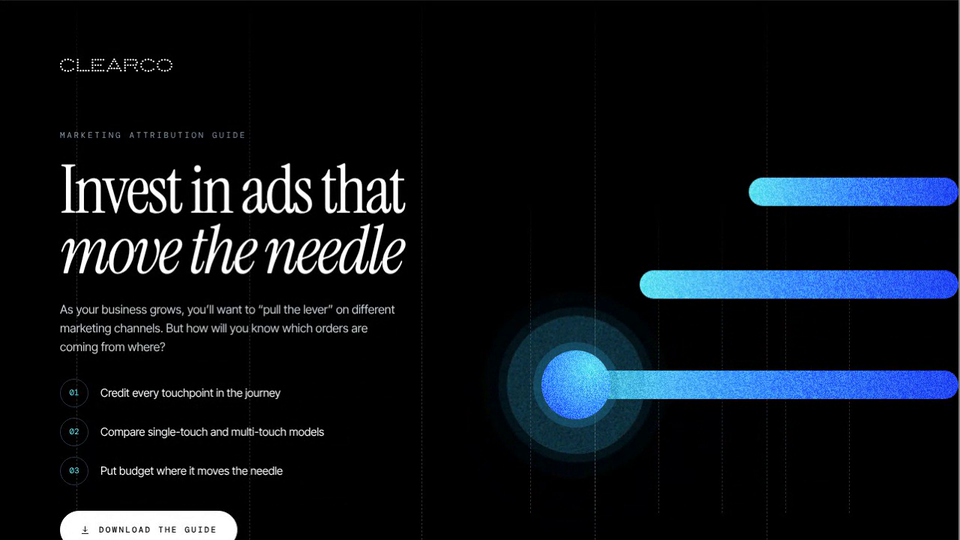
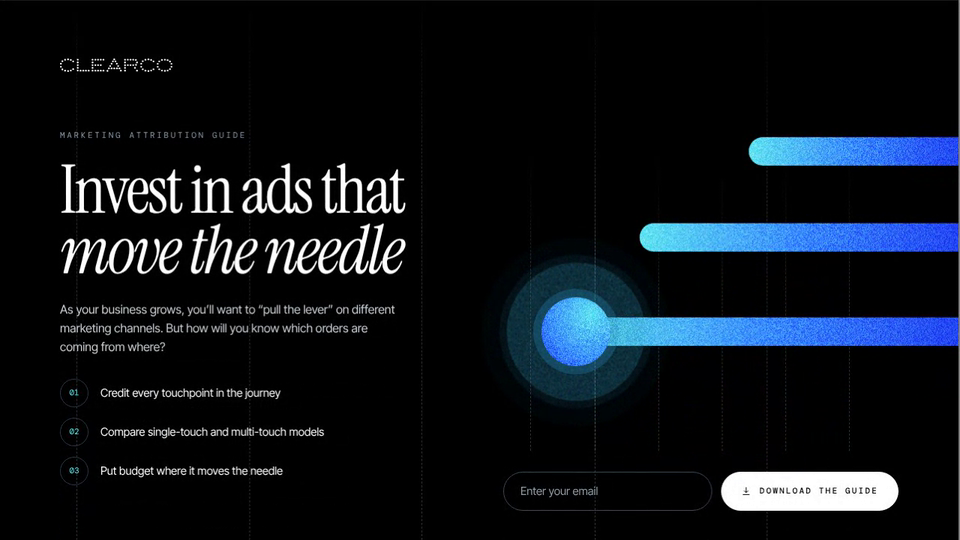
Attribution Guide: hero email sign-up in the right column under the pills, divider under the hero, square edge on pills that bleed off screen
Claude-Session: https://claude.ai/code/session_01AHeBdyii5AjQS77wpPRRok

diff --git a/clearco-attribution-guide/index.html b/clearco-attribution-guide/index.html
@@ -63,8 +63,8 @@ section,.band{position:relative;overflow:hidden}
    --w is how far it reaches (a fraction of its box), --p is the animation progress (0 to 1, set by script), --h its thickness.
    .pl grows from the left edge and leads with its right end, .pr grows from the right edge. */
 .pl,.pr{position:absolute;height:var(--h,34px);width:calc(var(--w,1) * 100% * var(--p,1));border-radius:99px;top:var(--y,0)}
-.pl{left:0;background:linear-gradient(90deg,var(--blue),var(--blue2) 50%,var(--cyan))}
-.pr{right:0;background:linear-gradient(270deg,var(--blue),var(--blue2) 50%,var(--cyan))}
+.pl{left:0;border-radius:0 99px 99px 0;background:linear-gradient(90deg,var(--blue),var(--blue2) 50%,var(--cyan))}
+.pr{right:0;border-radius:99px 0 0 99px;background:linear-gradient(270deg,var(--blue),var(--blue2) 50%,var(--cyan))}
 .pl::after,.pr::after,.hd::after,.pv::after{content:"";position:absolute;inset:0;border-radius:inherit;background:var(--grain);mix-blend-mode:overlay;opacity:.95;pointer-events:none}
 .hw{position:absolute;top:50%;width:var(--hd,56px);height:var(--hd,56px);opacity:calc(var(--p,1) * 8);transform:translateY(-50%) scale(clamp(.01,var(--p,1) * 8,1))}
 .pl .hw{right:0;margin-right:calc(var(--hd,56px) / -2)}
@@ -86,8 +86,10 @@ section,.band{position:relative;overflow:hidden}
 .dot.up .lab{top:auto;bottom:calc(100% + 18px)}
 
 /* ---------- hero ---------- */
-.hero{overflow-x:clip;padding:clamp(40px,6vw,80px) 0 clamp(48px,6vw,88px)}
-.hero .wrap{display:grid;grid-template-columns:1fr 1fr;gap:clamp(32px,5vw,72px);align-items:center}
+.hero{border-bottom:1px solid rgba(255,255,255,.3);overflow-x:clip;padding:clamp(40px,6vw,80px) 0 clamp(48px,6vw,88px)}
+.hero .wrap{display:grid;grid-template-columns:1fr 1fr;gap:clamp(32px,5vw,72px);align-items:stretch}
+.rcol{display:flex;flex-direction:column;justify-content:space-between;gap:28px;min-width:0}
+.rcol .signup{position:relative;z-index:1}
 .hero .logo{width:150px;margin:0 0 clamp(40px,6vw,76px)}
 .hero .mono{color:#8fa0ad}
 .hero h1{font:400 clamp(52px,7vw,100px)/.9 var(--serif);letter-spacing:-.035em;margin:26px 0 26px}
@@ -95,7 +97,7 @@ section,.band{position:relative;overflow:hidden}
 .points{list-style:none;padding:0;display:grid;gap:14px;margin:0 0 34px}
 .points li{display:flex;gap:16px;align-items:center;font-size:15px;line-height:1.4}
 .points i{flex:none;width:38px;height:38px;border:1px solid #2b3d52;border-radius:50%;display:grid;place-items:center;font:400 11px/1 var(--mono);font-style:normal;color:var(--cyan)}
-.vis{position:relative;height:clamp(380px,44vw,560px);width:calc(100% + (100vw - min(1120px,100vw - 40px)) / 2)}
+.vis{position:relative;flex:1;min-height:clamp(320px,34vw,440px);width:calc(100% + (100vw - min(1120px,100vw - 40px)) / 2)}
 .vis .rp i:nth-child(1){width:190%}.vis .rp i:nth-child(2){width:250%}.vis .rp i:nth-child(3){width:320%}
 .vis .dl{-webkit-mask-image:linear-gradient(transparent 20%,#000 60%);mask-image:linear-gradient(transparent 20%,#000 60%)}
 @media (max-width:820px){.hero .wrap{grid-template-columns:1fr}.vis{height:360px}}
@@ -139,7 +141,7 @@ section,.band{position:relative;overflow:hidden}
 
 /* chapter one: one journey drawn as a single pill with a stop for each touchpoint and a ripple where it ends in a purchase */
 .tlv{position:relative;height:clamp(300px,34vw,420px);width:calc(100% + (100vw - min(1120px,100vw - 40px)) / 2);--w:.8;overflow:hidden}
-.tlv .pl{top:50%;margin-top:-22px;--h:44px;--hd:64px;--w:.8}
+.tlv .pl{border-radius:99px;top:50%;margin-top:-22px;--h:44px;--hd:64px;--w:.8}
 .tlv .dl{-webkit-mask-image:none;mask-image:none}
 .tlv .dl i{border-left-color:rgba(36,71,245,.16)}
 .tlv .dot{--y:50%}
@@ -271,13 +273,15 @@ footer .sign{margin-top:28px;color:#8fa0ad;font-size:14px}
         <li><i>02</i><span>Compare single-touch and multi-touch models</span></li>
         <li><i>03</i><span>Put budget where it moves the needle</span></li>
       </ul>
-      <a class="btn" href="https://www.clear.co/"><svg viewBox="0 0 16 16" width="13" height="13" fill="none" stroke="currentColor" stroke-width="1.2" aria-hidden="true"><path d="M8 2v9M4.5 7.5 8 11l3.5-3.5M2.5 14h11"/></svg> Download the guide</a>
     </div>
+    <div class="rcol">
     <div class="vis" data-anim="6.4" role="img" aria-label="Three horizontal gradient pills extend in from the right edge of a black page with dashed guide lines; the longest ends in a glowing circle with ripples around it">
       <div class="dl" aria-hidden="true"><i style="left:6%"></i><i style="left:20%"></i><i style="left:34%"></i><i style="left:48%"></i><i style="left:62%"></i><i style="left:76%"></i></div>
       <div class="pr" style="--y:20%;--h:38px;--w:.46" data-d="0.5"></div>
       <div class="pr" style="--y:42%;--h:38px;--w:.7" data-d="0.25"></div>
       <div class="pr" style="--y:66%;--h:38px;--w:.84;--hd:92px" data-d="0"><span class="hw"><span class="rp"><i></i><i></i><i></i></span><span class="hd"></span></span></div>
+    </div>
+    <form class="signup" action="https://www.clear.co/" data-guide="https://www.clear.co/" novalidate><label class="em"><span class="sr">Email address</span><input type="email" name="email" placeholder="Enter your email" autocomplete="email" required></label><button class="btn" type="submit"><svg viewBox="0 0 16 16" width="13" height="13" fill="none" stroke="currentColor" stroke-width="1.2" aria-hidden="true"><path d="M8 2v9M4.5 7.5 8 11l3.5-3.5M2.5 14h11"/></svg> Download the guide</button><p class="err" role="alert" hidden>Please enter a valid email address.</p></form>
     </div>
   </div>
 </header>
@@ -553,13 +557,12 @@ footer .sign{margin-top:28px;color:#8fa0ad;font-size:14px}
   })();
 
   /* footer sign-up: checks the address, then opens the guide. The address is not sent or stored anywhere (front end only). */
-  var form = document.querySelector('.signup');
-  if (form) form.addEventListener('submit', function(e){
+  [].forEach.call(document.querySelectorAll('.signup'), function(form){ form.addEventListener('submit', function(e){
     e.preventDefault();
     var inp = form.querySelector('input'), err = form.querySelector('.err'), ok = /^[^\s@]+@[^\s@]+\.[^\s@]{2,}$/.test(inp.value.trim());
     inp.setAttribute('aria-invalid', ok ? 'false' : 'true'); err.hidden = ok;
     if (ok) window.open(form.dataset.guide, '_blank', 'noopener'); else inp.focus();
-  });
+  }); });
 
   /* ---- the closing field: vertical pills rising and falling like a graph, a circle on every top ---- */
   (function(){
